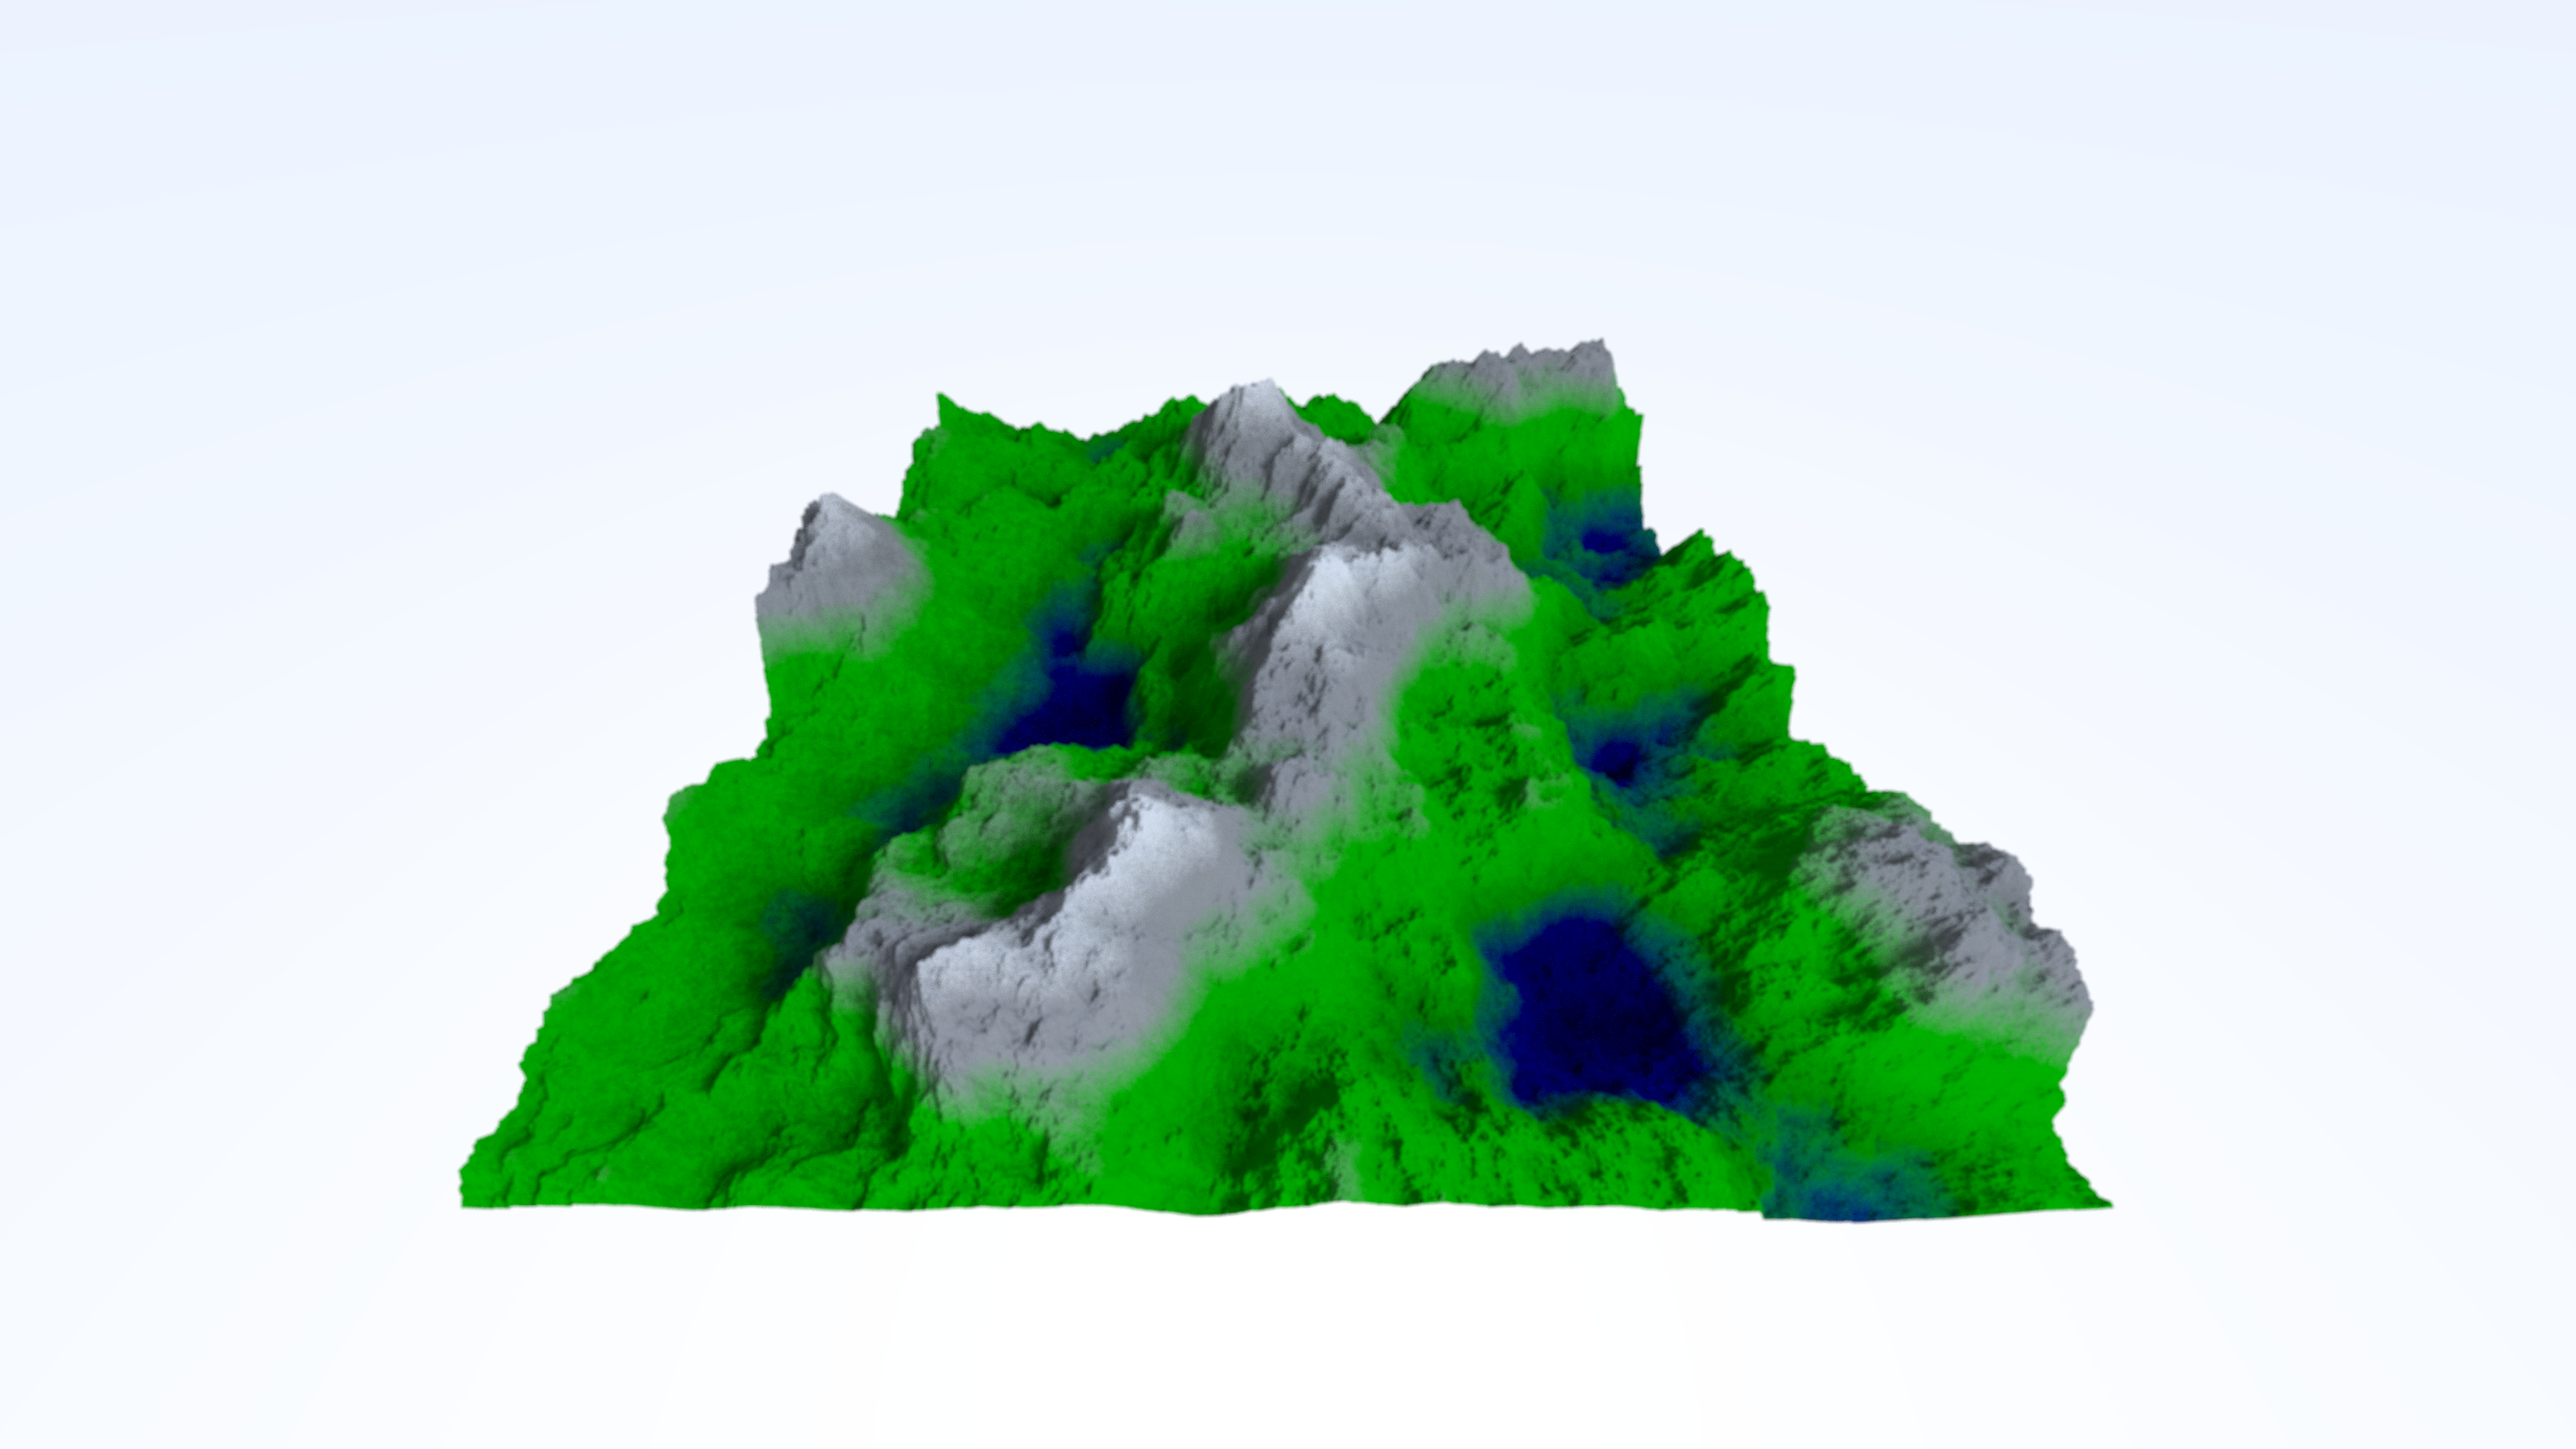
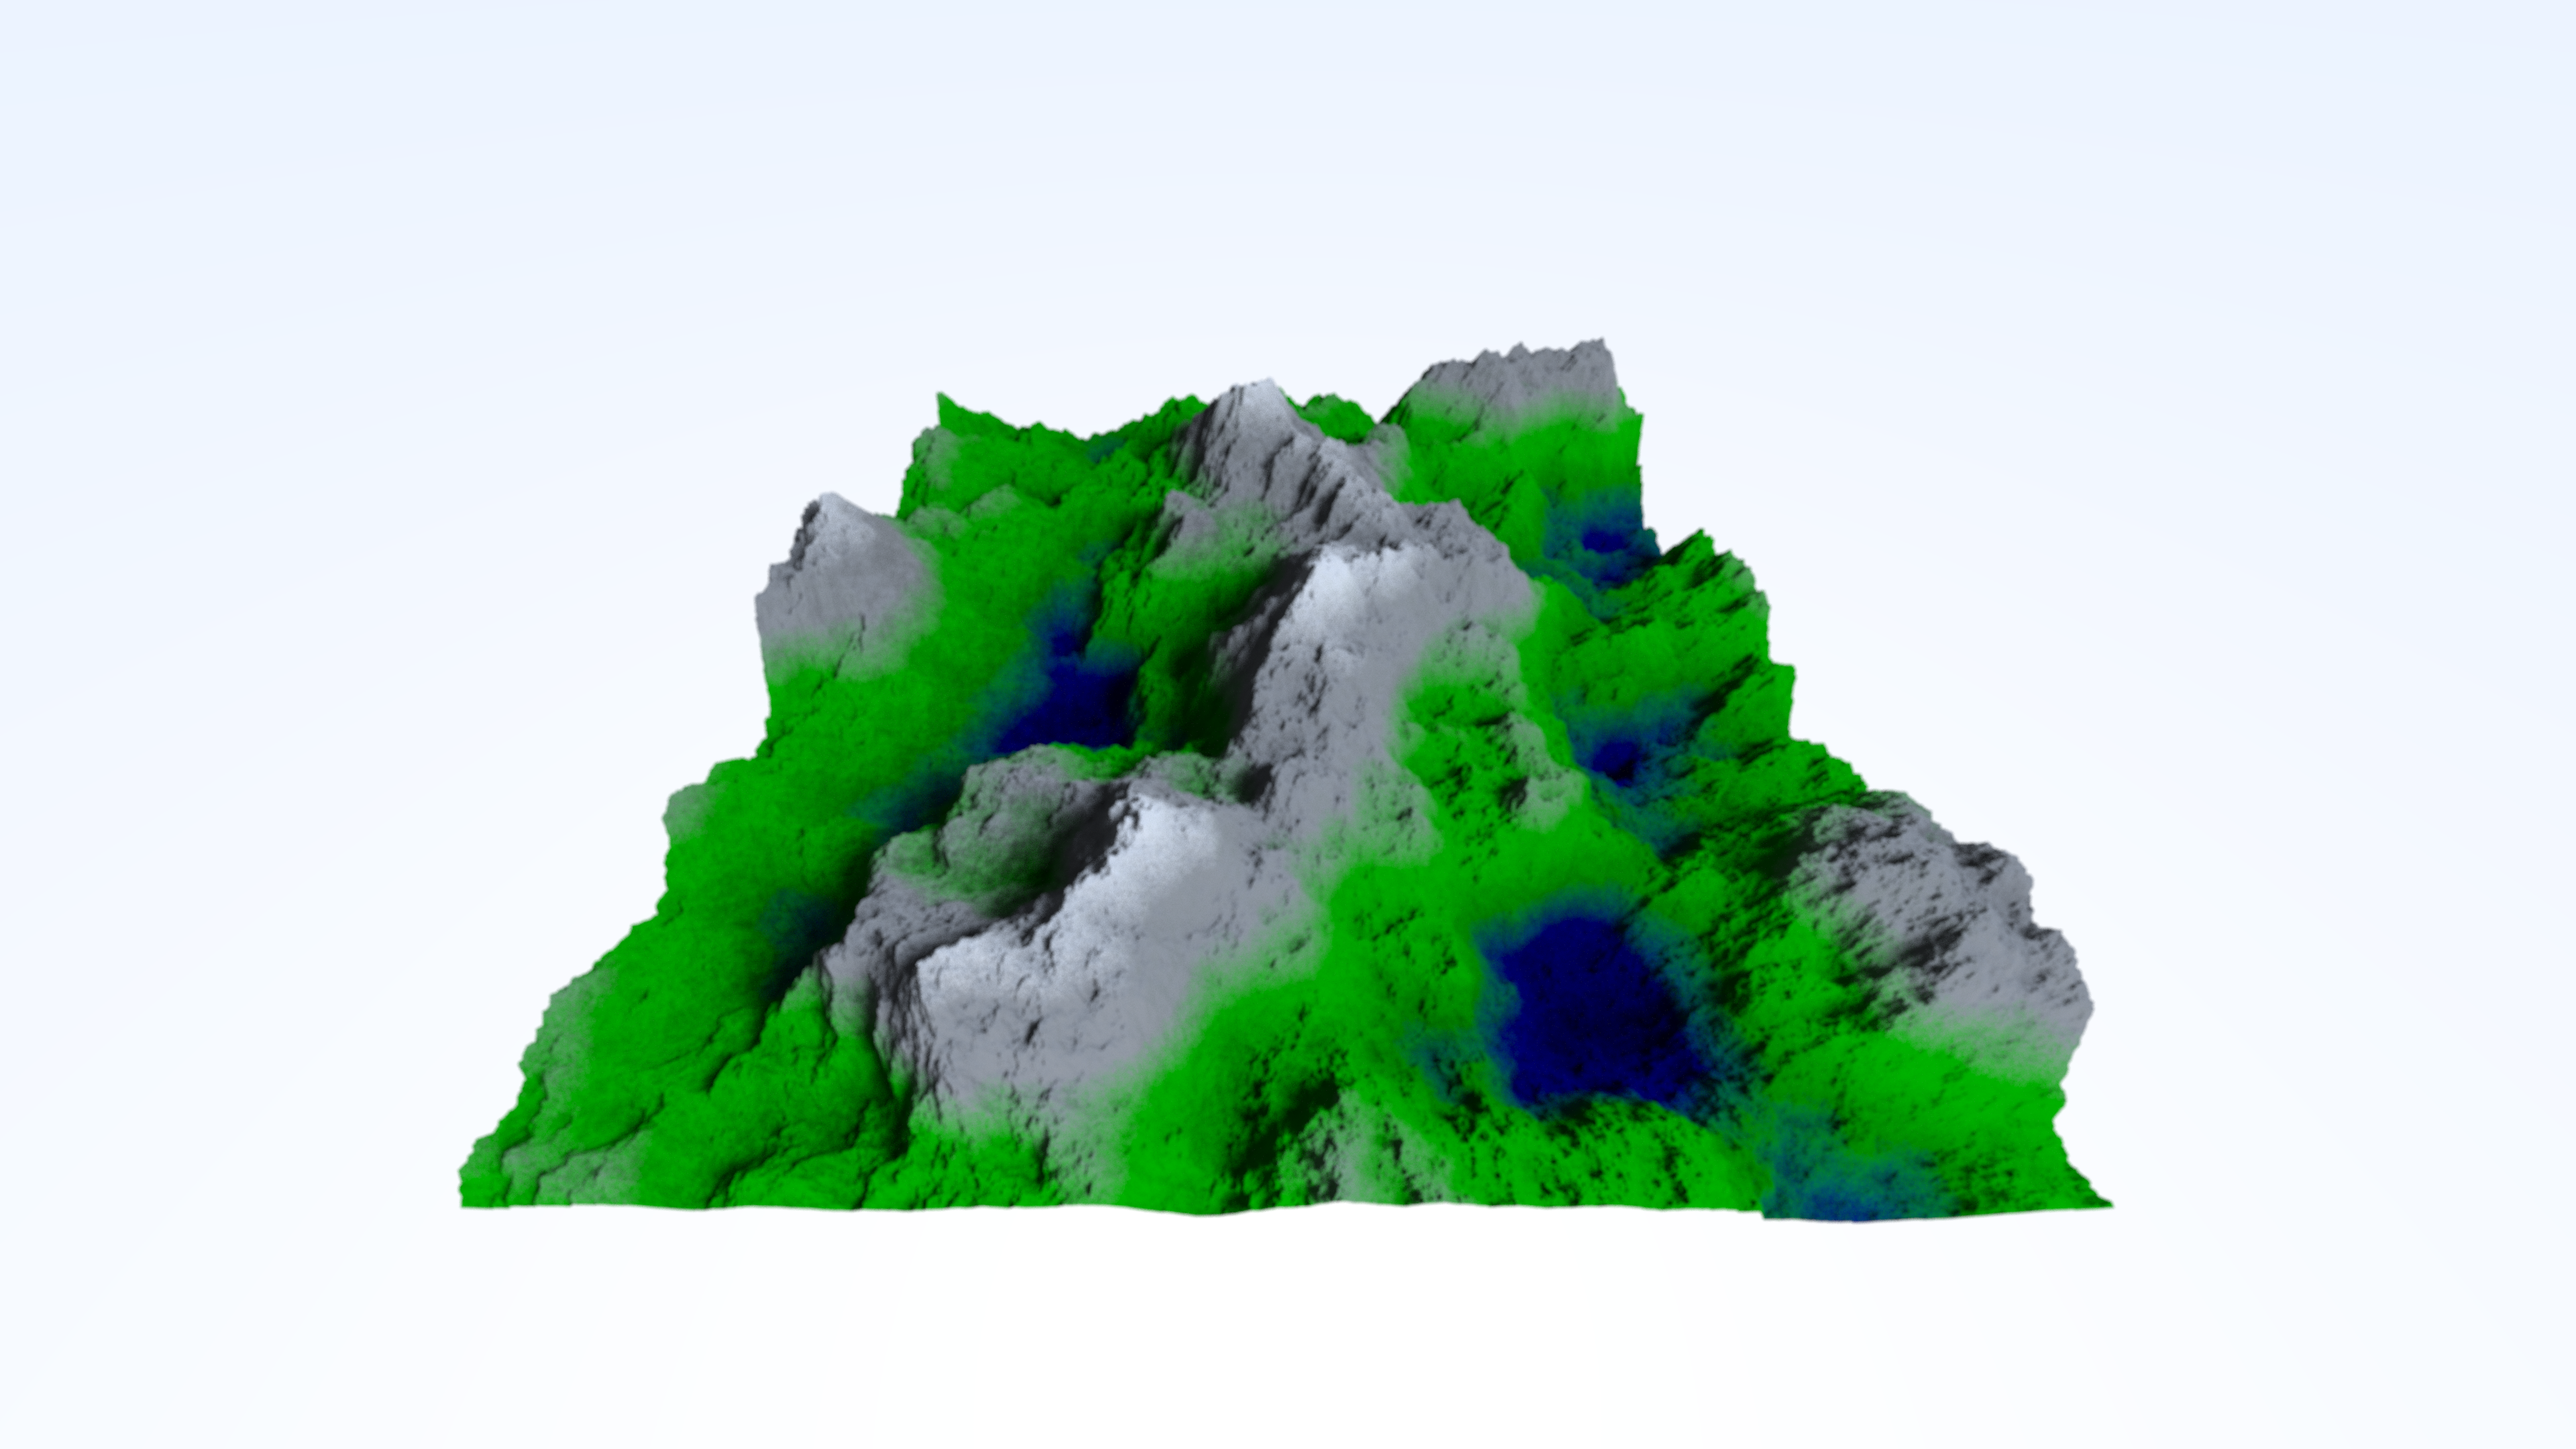
Update examples

diff --git a/examples/example_proc2/proc2.py b/examples/example_proc2/proc2.py
@@ -1,56 +1,56 @@
-"""Example procedural generation 1."""
+"""Example procedural generation 2."""
 
-from pyrays import Diffuse, HeightMap, ProceduralTerrain, Scene
+from pyrays import ProceduralTerrain, Diffuse, HeightMap, Scene
 
 
-image_width = 2880
+image_width = 3840
 aspect_ratio = 9.0 / 16.0
 image_height = int(aspect_ratio * image_width)
-samples_per_pixel = 50
+samples_per_pixel = 250
 resolution = 3000
 _resolution = resolution
 resolution *= 4
-max_depth = 50
+max_depth = 200
 v_fov = 90
 aperture = 0.01
 focal_distance = 1.5
-camera_pos = [0, resolution * 1.2, -12.0 * (resolution / 10.0)]
+camera_pos = [0, resolution * 1.35, -1.1 * resolution]
 camera_look_at = [0, 0, 0]
 camera_up = [0, 1, 0]
 multithreading = True
 
-scene = Scene(
+image = Scene(
     camera_pos,
     camera_look_at,
     camera_up,
     focal_distance,
     aperture,
     v_fov
-)
-
-scene.add_light(
-    [-1.0 * resolution, 1.5 * resolution, -2.5 * resolution]
-)
-
-colour_map = {
-    0.1: Diffuse([0, 0, 0.2]),
-    0.25: Diffuse([0, 0, 0.3]),
-    0.4: Diffuse([0.0, 0.4, 0.0]),
-    0.67: Diffuse([0.0, 0.6, 0.0]),
-    0.90: Diffuse([0.45, 0.45, 0.45]),
-    1.0: Diffuse([0.95, 0.95, 0.95]),
-}
-
-terrain = ProceduralTerrain(
-    [-1.0 * resolution, 0.0, -1.0 * resolution],
-    [1.0 * resolution, 0.0, 1.0 * resolution],
-    _resolution,
-    HeightMap(colour_map, fuzz=0.05)
-)
-terrain.perlin_heightmap([3, 6, 12, 24, 48, 96], 1, 0.6 * resolution)
-
-scene.add_object(terrain)
-image = scene.raytrace(
+).add_object(
+    ProceduralTerrain(
+        [-1.0 * resolution, 0.0, -1.0 * resolution],
+        [1.0 * resolution, 0.0, 1.0 * resolution],
+        _resolution,
+        HeightMap(
+            {
+                0.82: Diffuse([0.45, 0.45, 0.45]),
+                0.60: Diffuse([0.30, 0.60, 0.00]),
+                0.25: Diffuse([0.0, 0.6, 0.0]),
+                0.00: Diffuse([0.0, 0.4, 0.0]),
+            },
+            fuzz=0.15
+        )
+    ).perlin_heightmap(
+        octa=6,
+        seed=15,
+        magnitude=0.55 * resolution,
+        frequency=1.5 / _resolution,
+        lacunarity=2.5,
+        persistence=0.4
+    )
+).add_light(
+    [1.1 * resolution, 1.25 * resolution, -1.1 * resolution]
+).raytrace(
     image_width,
     image_height,
     samples_per_pixel,

diff --git a/src/pyrays/scene.py b/src/pyrays/scene.py
@@ -62,14 +62,21 @@ class Scene:
                 res += ', '
         res += '],'
         res += f'has_terrain: {"1" if has_terrain else "0"}, '
-        res += (
-            f'terrain: (p1: {terrain.p1}, p2: {terrain.p2}, resolution: {terrain.ppa}, '
-            f'octaves: {terrain.octave}, frequency: {terrain.frequency}, lacunarity: '
-            f'{terrain.lacunarity}, seed_value: {terrain.seed}, magnitude: {terrain.magnitude}, '
-            f'persistence: {terrain.persistence}, fuzz: {terrain.material.fuzz}, map_cutoff: '
-            f'{list(terrain.material.map.keys())}, map_value: '
-            f'{[x.colour for x in list(terrain.material.map.values())]})'
-        )
+        if has_terrain:
+            res += (
+                f'terrain: (p1: {terrain.p1}, p2: {terrain.p2}, resolution: {terrain.ppa}, '
+                f'octaves: {terrain.octave}, frequency: {terrain.frequency}, lacunarity: '
+                f'{terrain.lacunarity}, seed_value: {terrain.seed}, magnitude: {terrain.magnitude}, '
+                f'persistence: {terrain.persistence}, fuzz: {terrain.material.fuzz}, map_cutoff: '
+                f'{list(terrain.material.map.keys())}, map_value: '
+                f'{[x.colour for x in list(terrain.material.map.values())]})'
+            )
+        else:
+            res += (
+                'terrain: (p1: [0.0, 0.0, 0.0], p2: [0.0, 0.0, 0.0], resolution: 0, octaves: 0, '
+                'frequency: 0.0, lacunarity: 0.0, seed_value: 0, magnitude: 0, persistence: 0.0, '
+                'fuzz: 0.0, map_cutoff: [0.0], map_value: [[0.0, 0.0, 0.0]])'
+            )
         res += ')'
         return res
 

diff --git a/examples/example_proc1/proc1.py b/examples/example_proc1/proc1.py
@@ -6,11 +6,11 @@ from pyrays import ProceduralTerrain, Diffuse, HeightMap, Scene
 image_width = 3840
 aspect_ratio = 9.0 / 16.0
 image_height = int(aspect_ratio * image_width)
-samples_per_pixel = 150
-resolution = 3500
+samples_per_pixel = 250
+resolution = 3000
 _resolution = resolution
 resolution *= 4
-max_depth = 75
+max_depth = 150
 v_fov = 90
 aperture = 0.01
 focal_distance = 1.5
@@ -34,7 +34,7 @@ image = Scene(
         HeightMap(
             {
                 0.87: Diffuse([0.95, 0.95, 0.95]),
-                0.65: Diffuse([0.45, 0.45, 0.45]),
+                0.60: Diffuse([0.45, 0.45, 0.45]),
                 0.39: Diffuse([0.0, 0.6, 0.0]),
                 0.25: Diffuse([0.0, 0.4, 0.0]),
                 0.10: Diffuse([0, 0, 0.3]),

diff --git a/src/raytrace-rs/src/lib.rs b/src/raytrace-rs/src/lib.rs
@@ -93,7 +93,7 @@ fn ray_color(ray: ray::Ray, world: &hittables::Hittables, depth: i32) -> Vec3A {
                                     0.01,
                                     unsafe { fdiv_fast(max_dist, 2.0) },
                                 ) {
-                                    in_shadow *= Vec3A::new(0.25, 0.25, 0.25);
+                                    in_shadow *= Vec3A::new(0.05, 0.05, 0.05);
                                 }
                                 in_shadow
                             },

diff --git a/examples/test_scene/example.py b/examples/test_scene/example.py
@@ -2,8 +2,9 @@
 
 import pyrays
 
-image_width = 1920
-image_height = 1080
+image_width = 3840
+aspect_ratio = 9.0 / 16.0
+image_height = int(aspect_ratio * image_width)
 samples_per_pixel = 500
 max_depth = 250
 v_fov = 90
@@ -51,3 +52,4 @@ scene.add_object(pyrays.Square([-2.0, -2.0, 0.0],
 image = scene.raytrace(image_width, image_height, samples_per_pixel, max_depth, multithreading)
 
 image.show()
+image.save('img.png')
